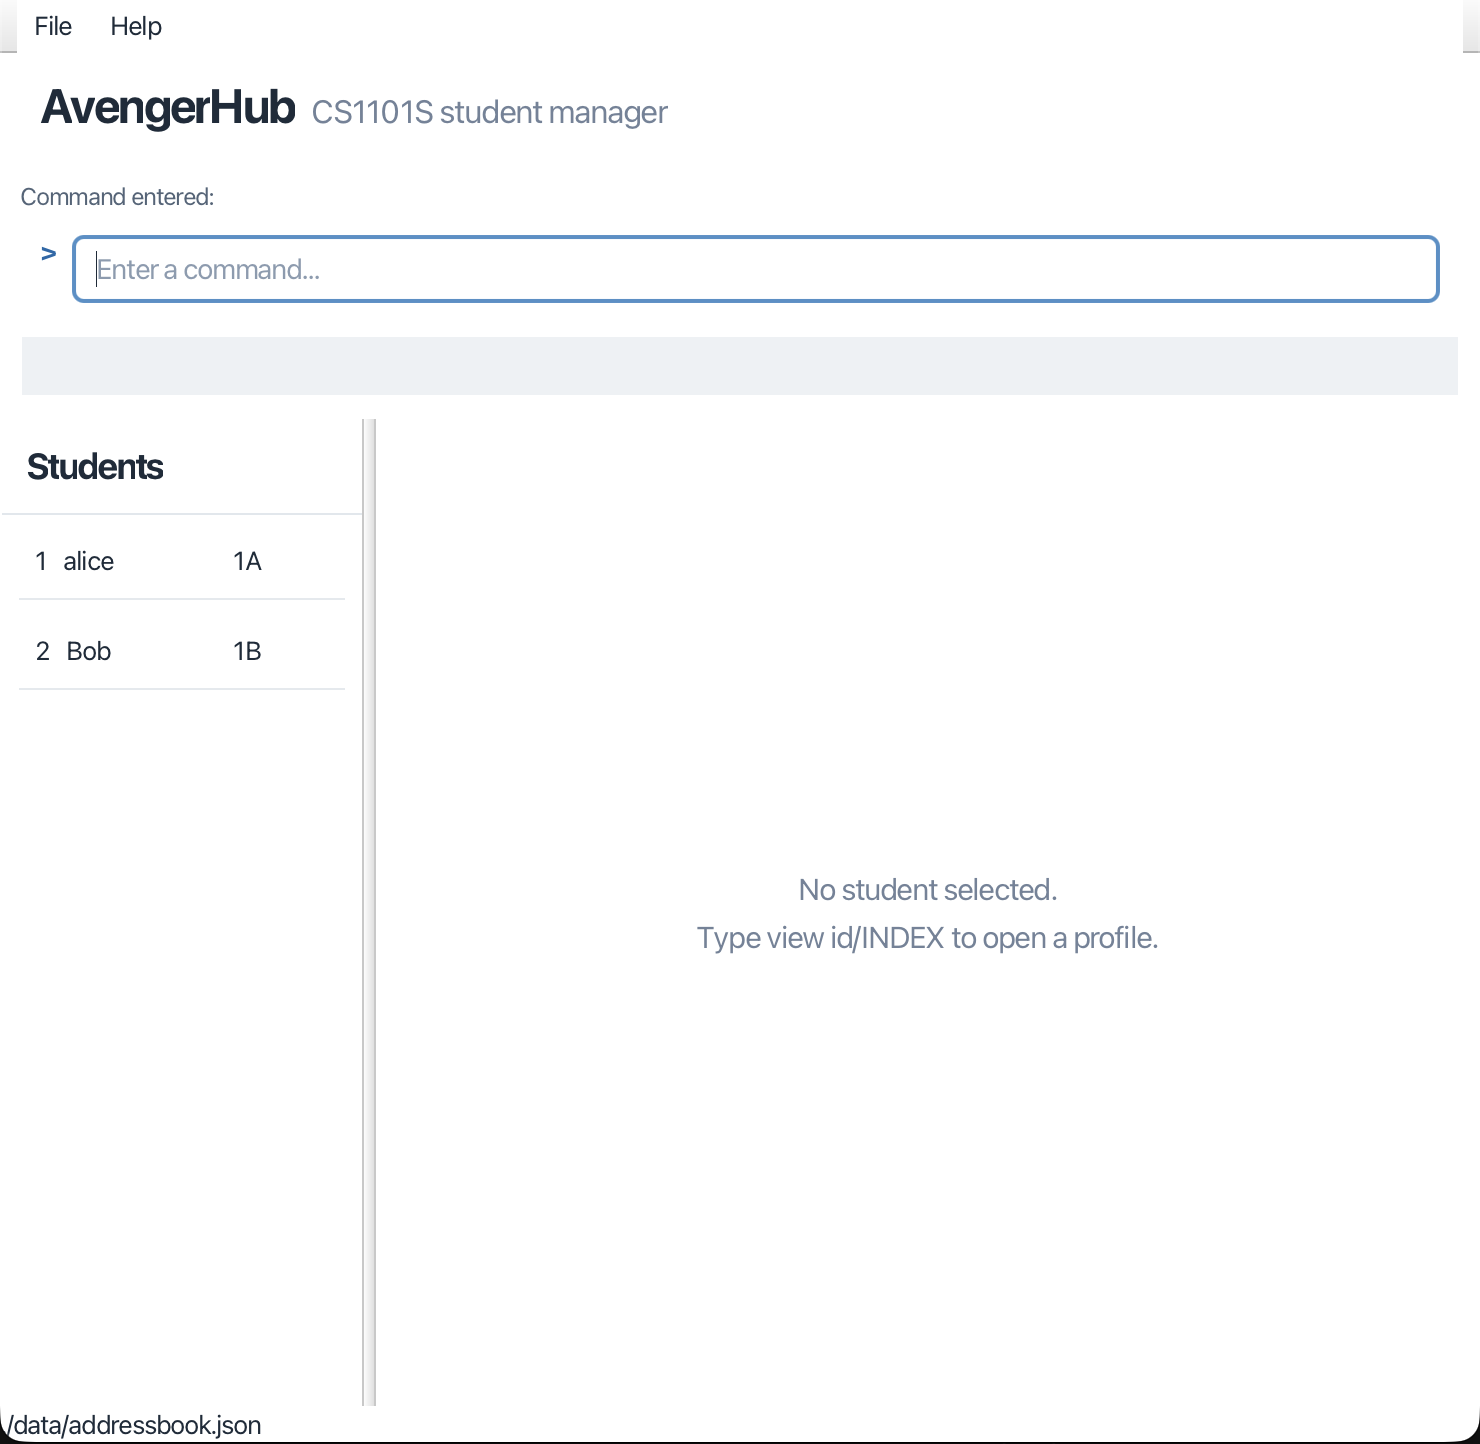
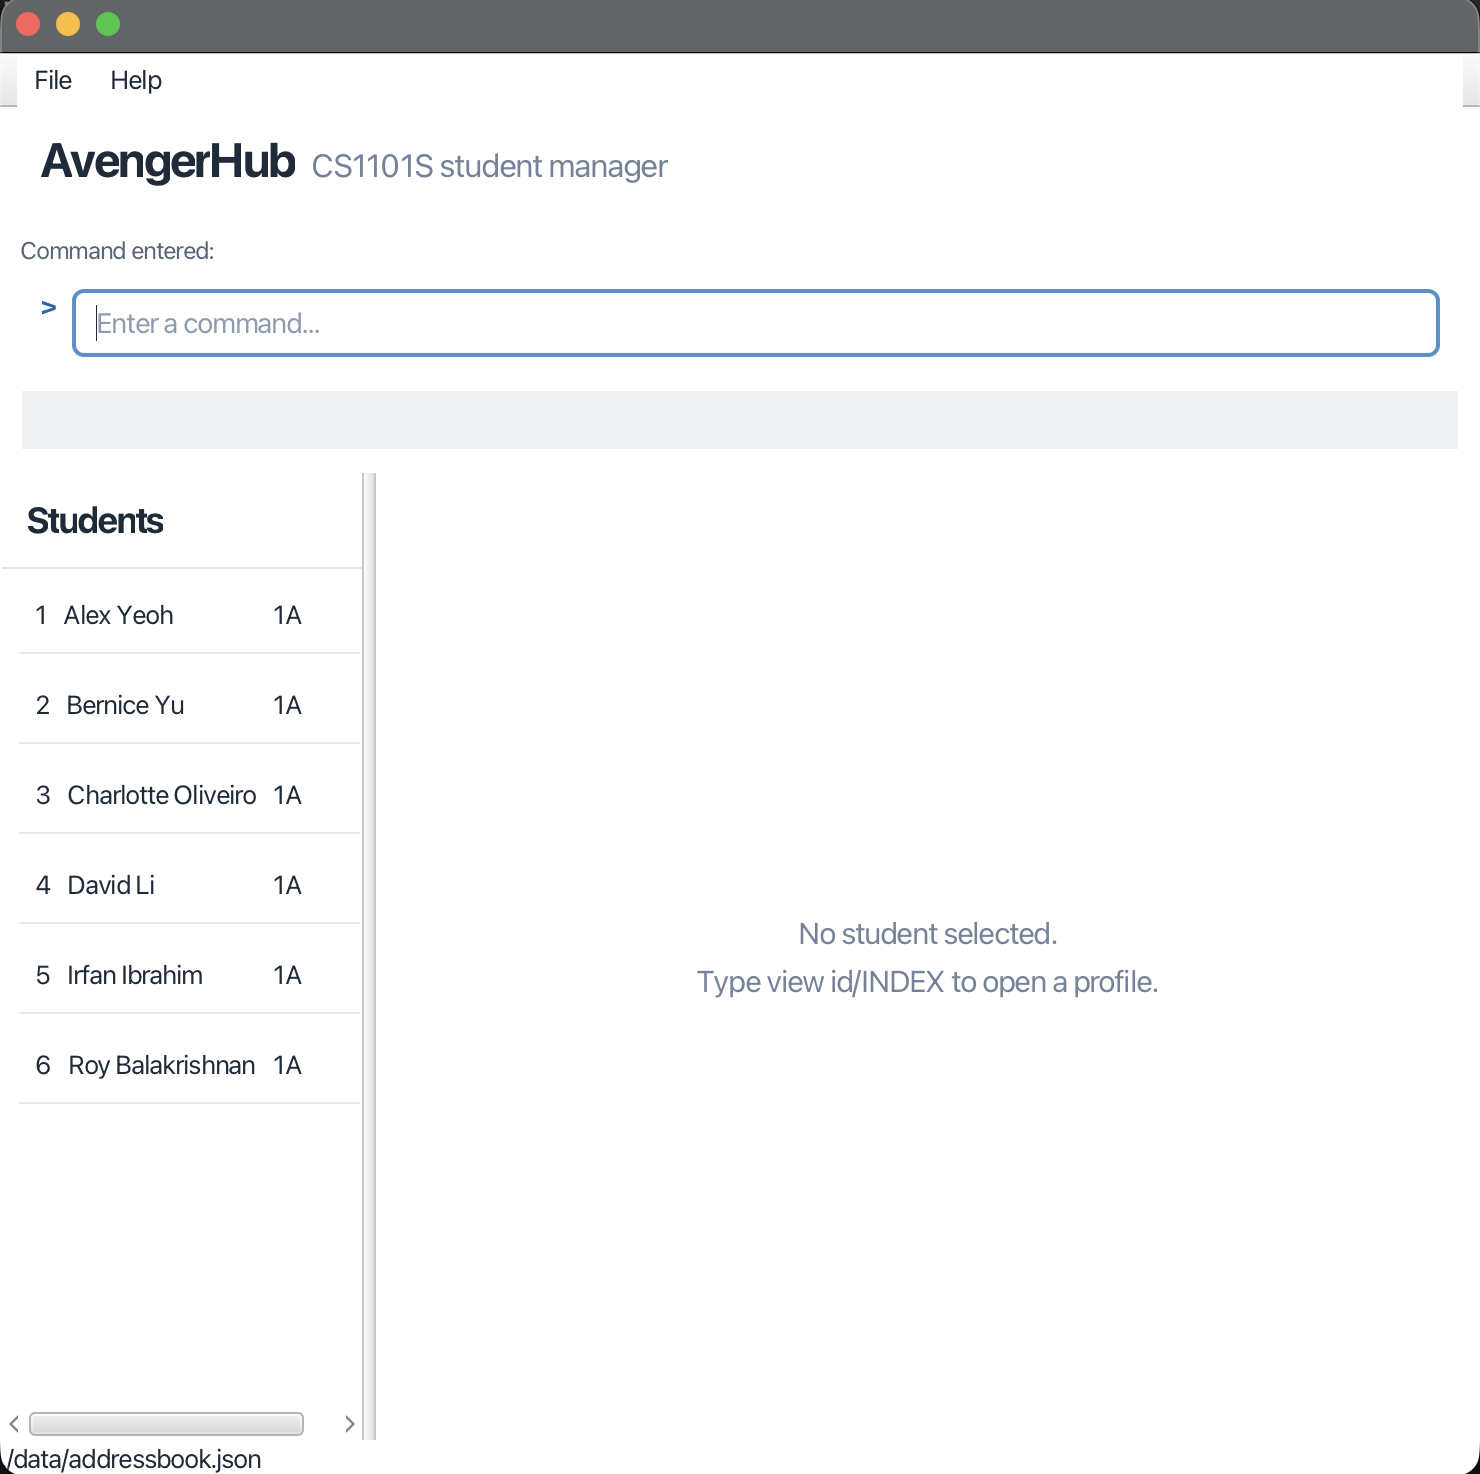
Standardize screenshot

diff --git a/docs/UserGuide.md b/docs/UserGuide.md
@@ -144,13 +144,13 @@ Examples:
 * `find Betsy Crowe`, followed by `view id/1`, displays the first student
   in those search results.
 
-For example, viewing alice displays the feedback:
+For example, viewing Alex Yeoh displays the feedback:
 
 ```text
-Showing profile of alice
+Showing profile of Alex Yeoh
 ```
 
-![result for 'view id/1'](images/viewIndex1.png)
+![result for 'view id/1'](images/viewId1.png)
 
 ### Editing a student: `editstudent`
 
@@ -199,7 +199,7 @@ Examples:
 * `find alex, david` matches `Alex Lee` and `David Li`.
 * `find alex, brian g/1A` matches Alex or Brian within studio group 1A.
 * `find g/1A g/1B` finds students in either studio group.
-  ![result for 'find alice'](images/findAlice.png)
+  ![result for 'find Alex, David'](images/findAlexDavid.png)
 
 ### Deleting a student: `delstudent`
 
